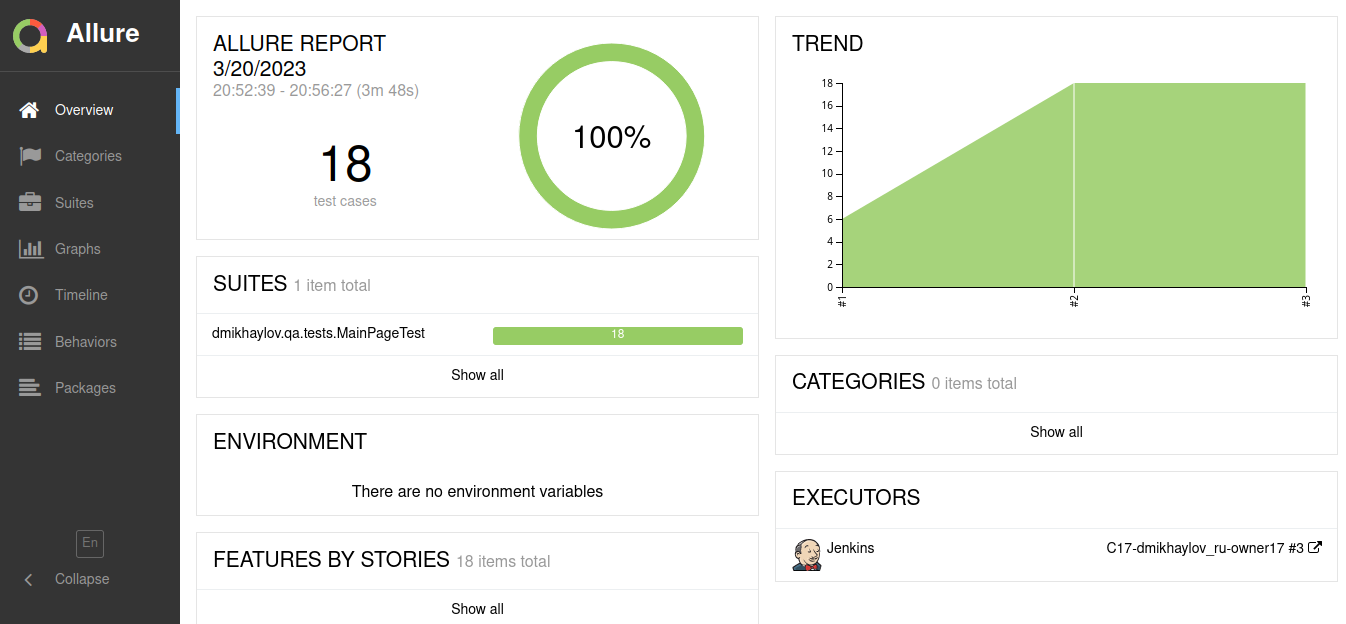
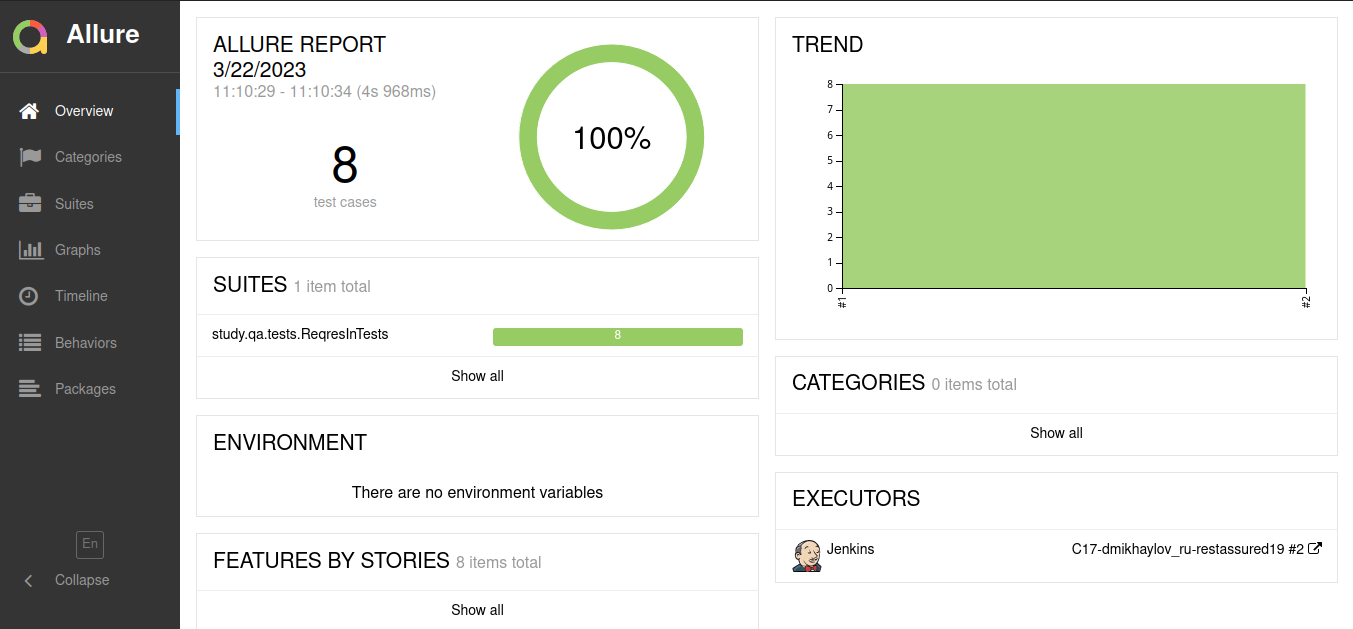
edited readme

diff --git a/README.md b/README.md
@@ -1,4 +1,4 @@
-# Автоматизация тестирования <a href="https://reqres.in" target="_blank"><img src="readme/images/reqres.png" width="50" height="50"></a>
+# Автоматизация тестирования <a href="https://reqres.in" target="_blank"><img src="readme/images/reqres.png" width="100" height="50"></a>
 
 ## :scroll: Содержание
 - [Технологии и инструменты](#pushpin-технологии-и-инструменты)
@@ -41,7 +41,7 @@
 - <code>ENV</code> окружение, в котором запускаютя тесты, по умолчанию remote
 
 ## :pushpin: Задача в Jenkins
-<a href="https://jenkins.autotests.cloud/job/C17-dmikhaylov_ru-owner17/"><img src="readme/screenshots/jenkins.png" alt="Задача в jenkins"></a>
+<a href="https://jenkins.autotests.cloud/job/C17-dmikhaylov_ru-restassured19/"><img src="readme/screenshots/jenkins.png" alt="Задача в jenkins"></a>
 
 ## :pushpin: Отчёт Allure
 <img src="readme/screenshots/allure_overview.png" alt="Allure_overview"/>
